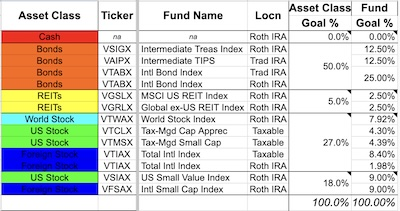
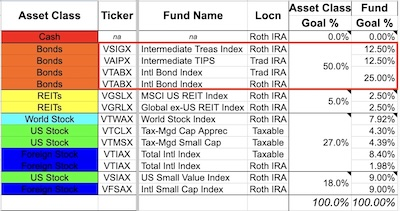
Tweak

diff --git a/_posts/2025-06-11-weekend-portfolio-trump-2.md b/_posts/2025-06-11-weekend-portfolio-trump-2.md
@@ -84,7 +84,7 @@ quite limited:
 So&hellip; more international bonds.  As you can see here, we've gone with 50/50 Treasuries
 &amp; TIPS/international bonds.  That makes us 50/50 in stock/bond ratio, 50/50 in
 US/international stocks, 50/50 in US/international REITs, and now 50/50 in US/international
-bonds.  
+bonds.  (See the bond sector in the red rectangle, shown here.)  
 
 There are, I think, 2 possible outcomes here:  
 - If I'm regrettably right, I'll probably wish this had been even more conservative, like a
